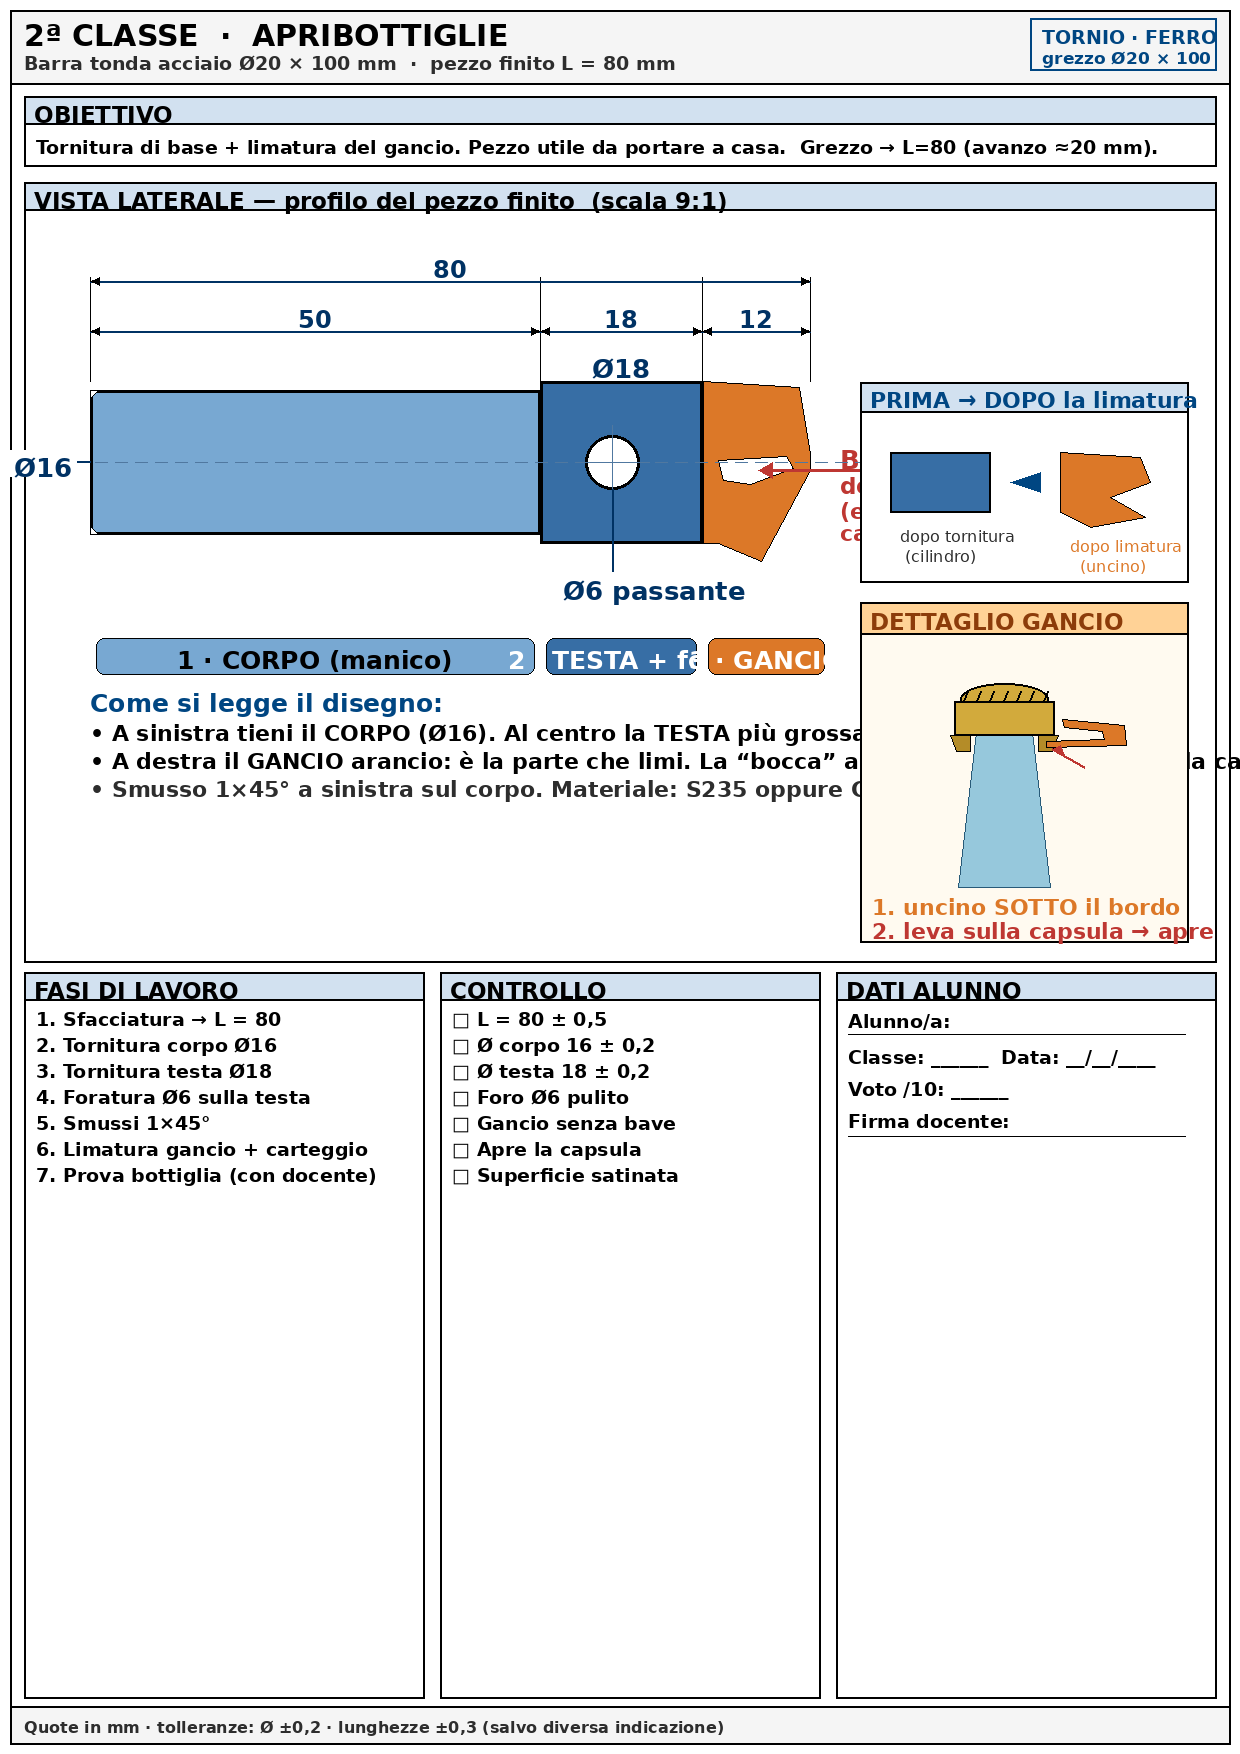
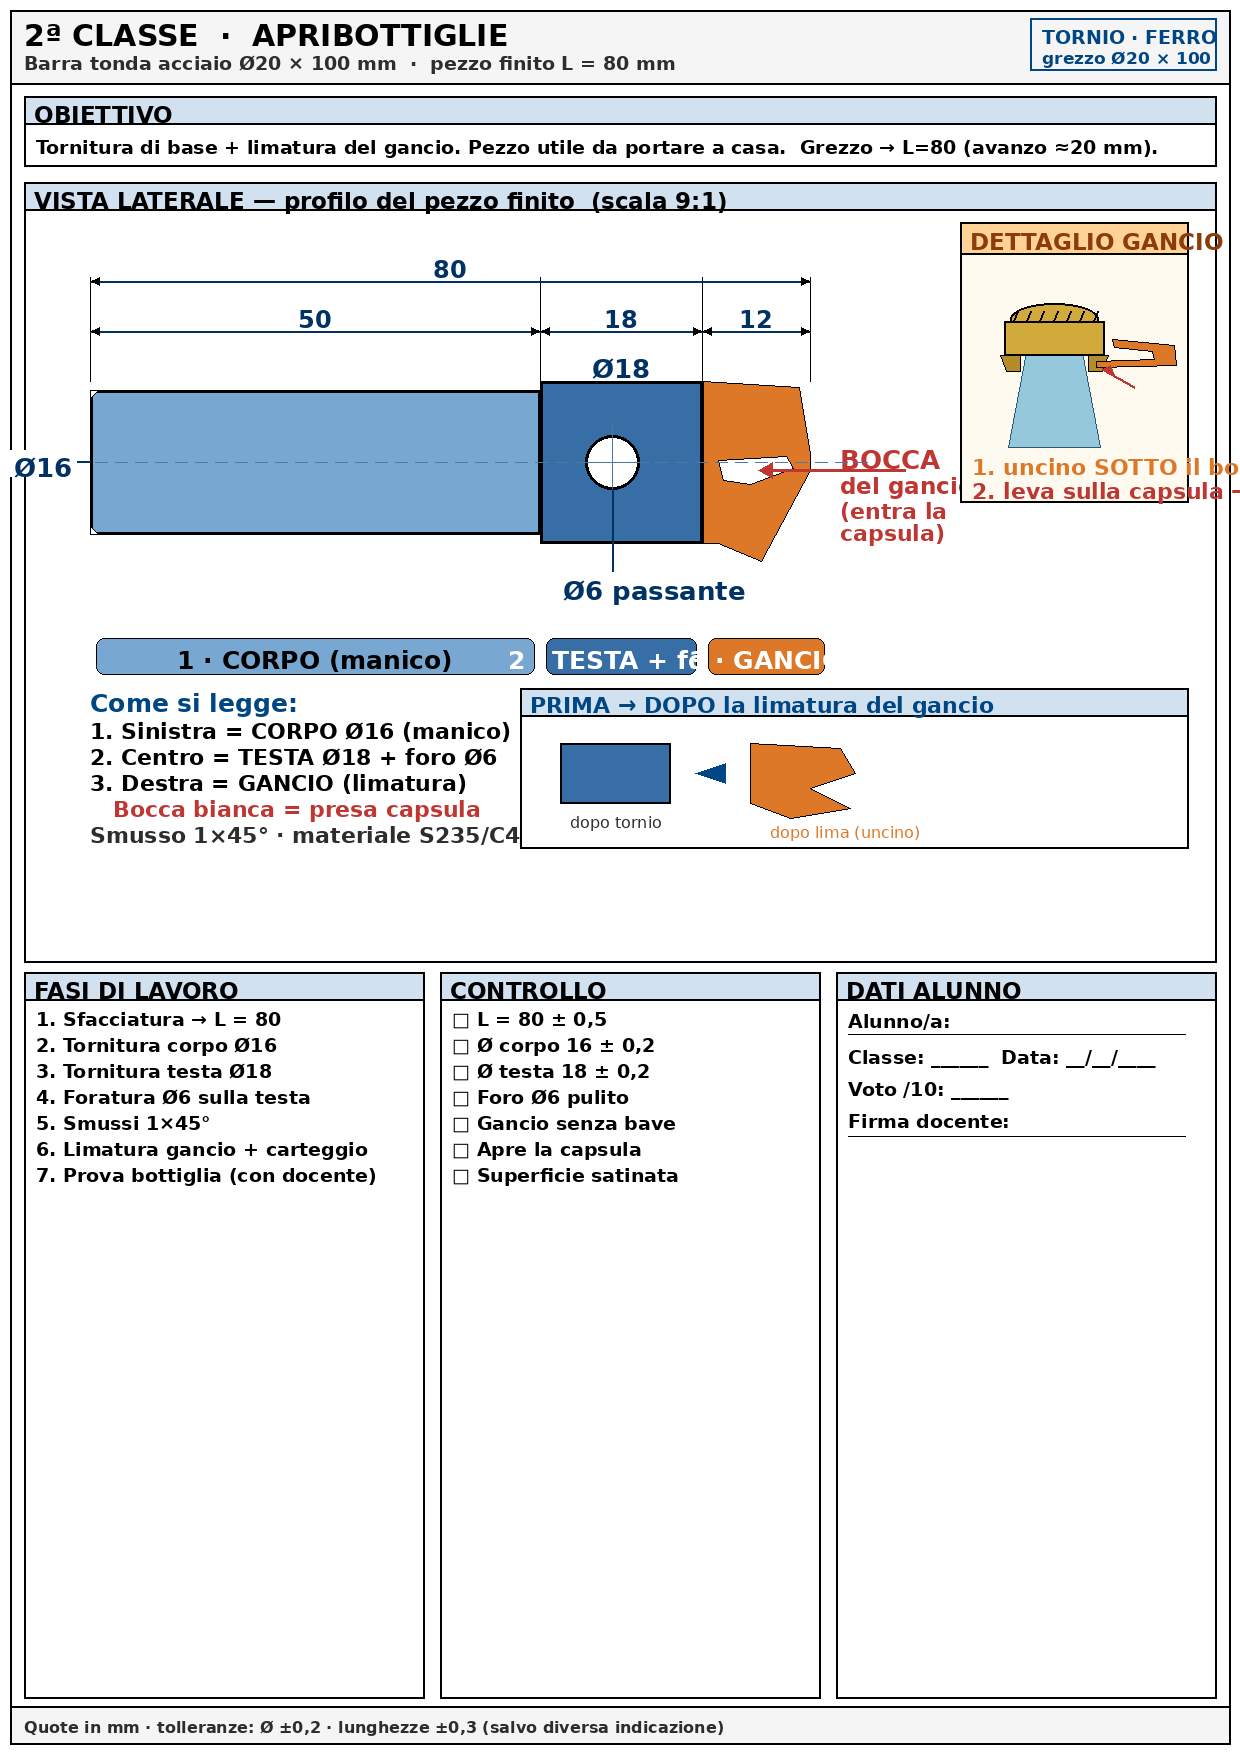
Chiarisce layout vista laterale apribottiglie (bocca e etichette).

Changed region(s): [[0.0613, 0.1231, 1.0, 0.5542], [0.9806, 0.431, 1.0, 0.4618]]

diff --git a/progetti-ferro-gallery/generate_ferro.py b/progetti-ferro-gallery/generate_ferro.py
@@ -399,43 +399,40 @@ def make_2a():
     tag(x1, x2, tag_y, "2 · TESTA + foro", STEEL_D, WHITE)
     tag(x2, end_x + 20, tag_y, "3 · GANCIO", ORANGE, WHITE)
 
-    # Note operative
+    # Note operative (colonna sinistra, sotto le etichette)
     ny = tag_y + 50
-    d.text((x0, ny), "Come si legge il disegno:", fill=ACCENT, font=F15)
-    d.text((x0, ny + 32), "• A sinistra tieni il CORPO (Ø16). Al centro la TESTA più grossa (Ø18) col foro per il dito.", fill=BLACK, font=F13)
-    d.text((x0, ny + 60), "• A destra il GANCIO arancio: è la parte che limi. La “bocca” aperta va sotto il bordo della capsula.", fill=BLACK, font=F13)
-    d.text((x0, ny + 88), "• Smusso 1×45° a sinistra sul corpo. Materiale: S235 oppure C40.", fill=GRAY, font=F13)
+    d.text((x0, ny), "Come si legge:", fill=ACCENT, font=F15)
+    d.text((x0, ny + 30), "1. Sinistra = CORPO Ø16 (manico)", fill=BLACK, font=F13)
+    d.text((x0, ny + 56), "2. Centro = TESTA Ø18 + foro Ø6", fill=BLACK, font=F13)
+    d.text((x0, ny + 82), "3. Destra = GANCIO (limatura)", fill=BLACK, font=F13)
+    d.text((x0, ny + 108), "   Bocca bianca = presa capsula", fill=CAP_RED, font=F13)
+    d.text((x0, ny + 134), "Smusso 1×45° · materiale S235/C40", fill=GRAY, font=F13)
 
-    # Mini “prima / dopo limatura” a destra in basso nel pannello
-    mx1, my1 = 860, draw_top + 200
-    d.rectangle([mx1, my1, 1188, my1 + 200], fill=WHITE, outline=BLACK, width=2)
-    d.rectangle([mx1, my1, 1188, my1 + 30], fill=LIGHT, outline=BLACK, width=2)
-    d.text((mx1 + 10, my1 + 5), "PRIMA → DOPO la limatura", fill=ACCENT, font=F13)
-    # prima: cilindro
-    d.rectangle([mx1 + 30, my1 + 70, mx1 + 130, my1 + 130], fill=STEEL_D, outline=BLACK, width=2)
-    d.text((mx1 + 40, my1 + 145), "dopo tornitura", fill=GRAY, font=Fs)
-    d.text((mx1 + 45, my1 + 165), "(cilindro)", fill=GRAY, font=Fs)
-    # freccia
-    d.polygon([(mx1 + 150, my1 + 100), (mx1 + 180, my1 + 90), (mx1 + 180, my1 + 110)], fill=ACCENT)
-    # dopo: gancio
+    # Mini “prima / dopo limatura” a destra delle note
+    mx1, my1 = 520, tag_y + 50
+    d.rectangle([mx1, my1, 1188, my1 + 160], fill=WHITE, outline=BLACK, width=2)
+    d.rectangle([mx1, my1, 1188, my1 + 28], fill=LIGHT, outline=BLACK, width=2)
+    d.text((mx1 + 10, my1 + 4), "PRIMA → DOPO la limatura del gancio", fill=ACCENT, font=F13)
+    d.rectangle([mx1 + 40, my1 + 55, mx1 + 150, my1 + 115], fill=STEEL_D, outline=BLACK, width=2)
+    d.text((mx1 + 50, my1 + 125), "dopo tornio", fill=GRAY, font=Fs)
+    d.polygon([(mx1 + 175, my1 + 85), (mx1 + 205, my1 + 75), (mx1 + 205, my1 + 95)], fill=ACCENT)
     d.polygon(
         [
-            (mx1 + 200, my1 + 70),
-            (mx1 + 280, my1 + 75),
+            (mx1 + 230, my1 + 55),
+            (mx1 + 320, my1 + 60),
+            (mx1 + 335, my1 + 85),
             (mx1 + 290, my1 + 100),
-            (mx1 + 250, my1 + 115),
-            (mx1 + 285, my1 + 135),
-            (mx1 + 230, my1 + 145),
-            (mx1 + 200, my1 + 130),
+            (mx1 + 330, my1 + 120),
+            (mx1 + 270, my1 + 130),
+            (mx1 + 230, my1 + 115),
         ],
         fill=ORANGE,
         outline=BLACK,
     )
-    d.text((mx1 + 210, my1 + 155), "dopo limatura", fill=ORANGE, font=Fs)
-    d.text((mx1 + 220, my1 + 175), "(uncino)", fill=ORANGE, font=Fs)
+    d.text((mx1 + 250, my1 + 135), "dopo lima (uncino)", fill=ORANGE, font=Fs)
 
-    # Dettaglio uso capsula — sotto, a tutta larghezza piccola
-    draw_hook_detail(d, 860, my1 + 220, 1188, draw_top + draw_h - 20)
+    # Dettaglio uso capsula — a destra del disegno principale, in alto
+    draw_hook_detail(d, 960, draw_top + 40, 1188, draw_top + 320)
 
     # Bottom
     bot = draw_top + draw_h + 10
